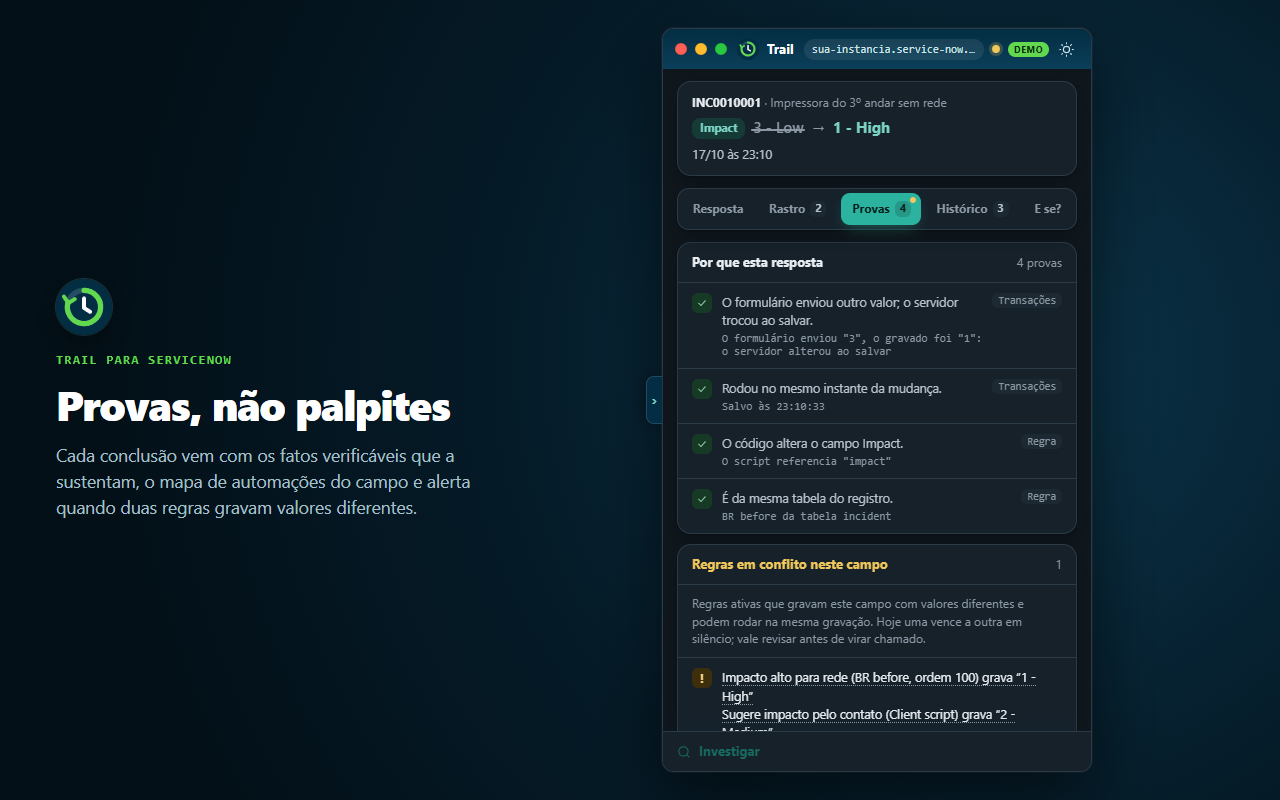
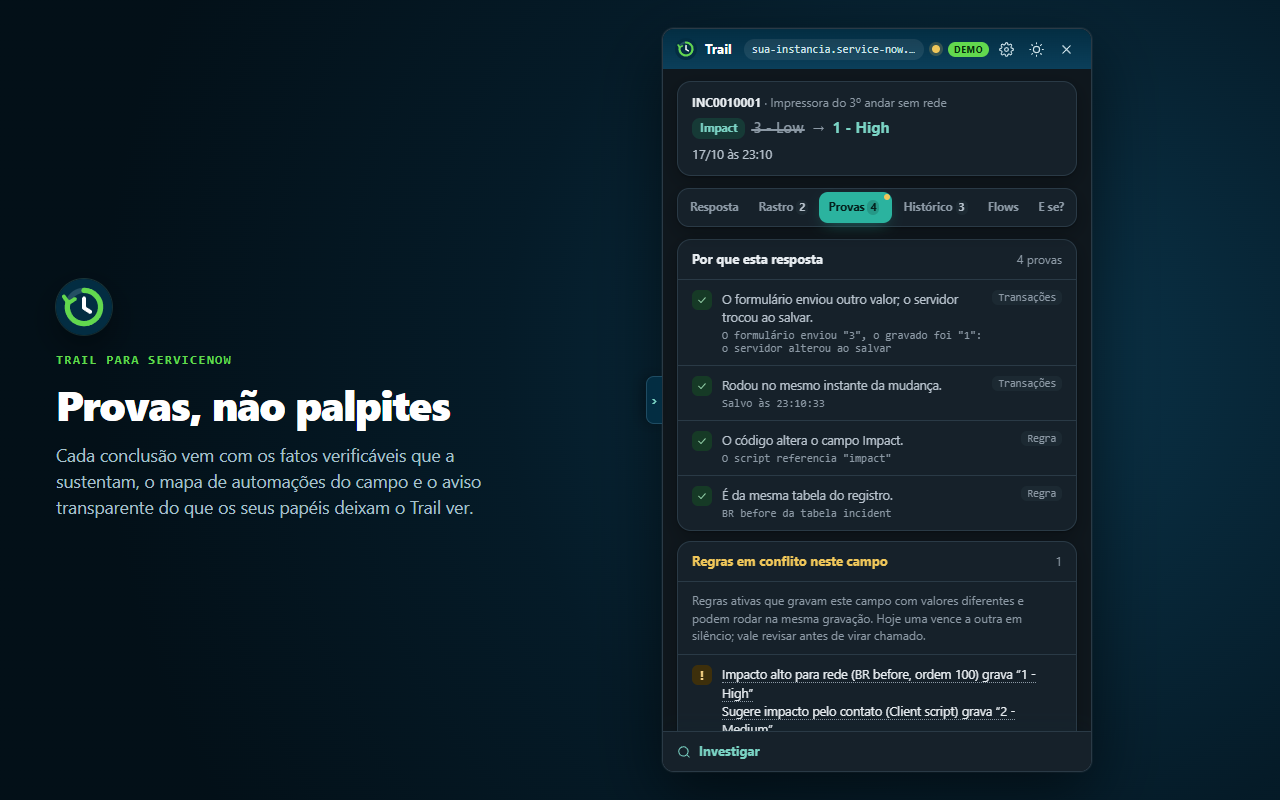
Prepare 1.0.0 store listing materials

diff --git a/docs/loja-edge.md b/docs/loja-edge.md
@@ -1,114 +1,217 @@
-# Submissão na loja Microsoft Edge Add-ons
+# Materiais e instruções para as lojas (Edge Add-ons & Chrome Web Store)
 
-Textos, notas de versão, respostas de revisão e instruções para publicar o **Trail** (v0.13.0) no Partner Center.
+Guia completo, textos de listagem (PT e EN), notas da versão 1.0.0, justificativas de permissões para revisores, especificações oficiais de assets e instruções passo a passo para publicação do **Trail 1.0.0**.
 
-## Nome
-**Trail — Perícia de registros ServiceNow** (ou, em inglês: **Trail — ServiceNow Record Forensics**)
+> [!IMPORTANT]
+> **Ação exclusiva do proprietário:** a submissão dos pacotes, o aceite dos termos legais e o gerenciamento das contas nas lojas Microsoft Edge Partner Center e Chrome Web Store Developer Dashboard são realizados exclusivamente pelo dono do projeto. Nenhum agente automatizado realiza envios ou aceites de termos.
 
-## Descrição curta (até 132 caracteres)
+---
+
+## 1. Identificação e nome da extensão
+
+- **Nome em português:** `Trail — Perícia de registros ServiceNow`
+- **Nome em inglês:** `Trail — ServiceNow Record Forensics`
+- **Nome curto (manifest / abas):** `Trail`
+- **Categoria recomendada:**
+  - Edge Partner Center: **Developer tools** (Ferramentas para desenvolvedores) ou **Productivity** (Produtividade)
+  - Chrome Web Store: **Developer Tools** (Ferramentas para desenvolvedores) ou **Workflow & Planning** (Fluxo de trabalho e planejamento)
+
+---
+
+## 2. Descrição curta (limite oficial: até 132 caracteres)
+
+### Português (127 caracteres)
 > Descubra o que mudou qualquer campo do ServiceNow e por quê. Funciona sem admin, sem instalar nada nem criar papel. Só leitura.
 
-*(127 caracteres — em inglês, 123 caracteres:)*
+### English (123 characters)
 > Find out what changed any ServiceNow field and why. Works without admin, nothing to install, no new role needed. Read-only.
 
-## Descrição longa (Português)
+---
 
-Um campo de um incidente, mudança ou item de catálogo apareceu com outro valor e ninguém sabe dizer se foi uma pessoa, uma integração, uma business rule, um client script, um job agendado ou um flow.
+## 3. Descrição longa (Português)
 
-**Funciona sem ser admin:** o **Trail** usa o que o seu próprio login já vê na instância, sem instalar nenhum app e sem criar papel novo. Quando a auditoria completa (`sys_audit`) é negada para quem não é admin, ele reconstrói a linha do tempo a partir do histórico que você já enxerga no formulário e mostra, em palavras simples, **o que os seus papéis deixam o Trail ver**.
+Um campo de um incidente, mudança, tarefa ou item de catálogo apareceu com outro valor e ninguém sabe dizer se foi uma pessoa, uma integração, uma regra de negócio, um script de cliente, um job agendado ou um flow.
 
-Ao abrir um formulário ou lista no ServiceNow (UI16, Workspace e Service Portal), o Trail coloca um ícone discreto ao lado de cada campo e uma **bolinha-assistente** sempre à mão no canto da página:
+**Funciona sem ser admin:** o **Trail** usa o que o seu próprio login já vê na instância, sem instalar nenhum app no ServiceNow e sem criar nenhum papel de sistema. Quando a auditoria completa (`sys_audit`) é restrita para o seu perfil, ele reconstrói a linha do tempo a partir do histórico que você já enxerga no formulário (Activity Stream) e explica, em palavras simples e sem jargões, **o que os seus papéis deixam o Trail ver**.
 
-- **Funciona com ou sem admin (sem instalar nada):** conversa com o servidor usando a sua sessão já aberta no navegador e respeita as ACLs da instância. Com admin, cruza todas as tabelas de auditoria, transações, eventos, flows, jobs e scripts; sem admin (como `itil` ou `Flow Designer`), usa o histórico do formulário e tudo mais que os seus papéis puderem ler, listando com transparência o que entrou na análise e o que ficou de fora.
-- **Bolinha-assistente na página:** fica no canto da instância conectada, pode ser arrastada para qualquer lugar da tela (fica onde você soltar e lembra a posição), dá boas-vindas uma vez por registro e exibe o balão de dica só ao passar o mouse; um clique abre o painel flutuante.
-- **Painel flutuante, cabeçalho novo e configurações rápidas:** abre dentro da própria página (ou pelo atalho configurável `Alt+Shift+P`), redimensionável por qualquer borda ou canto. O cabeçalho traz marca, nome e instância à esquerda e, à direita, **⚙ Configurações** (ligar ou desligar animações, gravar atalho para abrir e fechar, escolher tema, idioma, onde abrir o painel, ícones nos campos, bolinha e modo **Sempre visível** em Picture-in-Picture que fica por cima de tudo), botão para enviar ao painel lateral do Edge, alternância de tema e `✕` (ou `Esc`) para recolher na bolinha.
-- **Resposta e nomes como no formulário:** mostra quem mudou o campo, quando, de qual valor para qual (com o rótulo certo por tabela via `sys_documentation`, valor legível em vez de `sys_id` e links nas referências) e se a certeza é alta, média ou baixa, com texto pronto sem jargão técnico para colar no chamado.
-- **Rastro segundo a segundo e provas:** reconstrói a janela da mudança (formulário salvo, regras, eventos, flows e jobs) e lista cada fato verificável, por que outros candidatos foram descartados e se há regras em conflito gravando o mesmo campo.
-- **"Tudo que mudou" em grupos por momento:** ao investigar o registro inteiro ou vários registros em lote pela lista, usa a animação da trilha com a lupa e etapas próprias (*"Lendo a auditoria do registro..."*, *"Separando os campos que mudaram..."*) e agrupa as alterações por salvamento (*"admin salvou 4 campos"*), com filtros por pessoa, API ou automação e exportação em CSV, texto ou PDF.
-- **O que mudou entre dois momentos e "E se?":** escolha dois momentos na linha do tempo para ver só o que ficou diferente no registro entre eles, ou simule na aba **E se?** o que mudaria antes de salvar outro valor.
+Ao abrir qualquer formulário ou lista no ServiceNow (UI16 clássico, Workspace, Service Operations Workspace e Service Portal), o Trail coloca um ícone discreto ao lado de cada campo e uma **bolinha-assistente** sempre à mão:
 
-**Privacidade e segurança**
-- **Somente leitura:** o cliente REST do motor faz apenas consultas de leitura (`GET`). Não há código capaz de criar, alterar ou apagar registros na instância.
-- **Respeito total às ACLs do usuário:** a extensão usa a sessão autenticada do navegador e nunca vê além do que as ACLs do próprio usuário permitem no servidor.
-- **Sem servidores externos:** todas as chamadas vão direto do navegador para a instância aberta na aba. Não há telemetria, conta própria nem coleta de dados.
-- **Permissão por instância:** você escolhe em quais instâncias conectar o Trail; a extensão não pede acesso a todos os sites.
+### Principais recursos
 
-## Long description (English)
+- **Funciona com ou sem admin (sem instalar nada):** conversa com o servidor usando a sua sessão já autenticada no navegador e respeita rigorosamente as ACLs da instância. Com admin, cruza auditoria, transações, eventos, flows, jobs e scripts; sem admin (como perfil `itil` ou `Flow Designer`), utiliza o histórico do formulário e todas as fontes legíveis, com transparência total sobre o que entrou na análise e o que ficou de fora.
+- **Bolinha-assistente e painel flutuante livre:** a bolinha pode ser arrastada e solta em qualquer lugar da tela (lembra a posição exata), dá boas-vindas uma vez por registro e exibe a dica apenas ao passar o mouse. Um clique abre o painel flutuante com cantos arredondados, redimensionável por qualquer borda ou canto.
+- **Configurações rápidas e modo Sempre Visível:** o cabeçalho conta com acesso direto a **⚙ Configurações** dentro do próprio painel (ligar/desligar animações, gravar atalho de teclado customizado — padrão `Alt+Shift+P`, alternar tema claro/escuro, idioma, modo de abertura e controle dos ícones), botão para enviar ao painel lateral do navegador, e modo **Sempre visível** (Document Picture-in-Picture) que mantém o painel flutuando por cima de tudo, inclusive de outros programas.
+- **Resposta clara com nomes e rótulos do formulário:** informa quem mudou o campo, quando, de qual valor para qual (com rótulos reais via `sys_documentation`, valores legíveis em vez de `sys_id` e links clicáveis nas referências) e o grau de certeza (alta, média ou baixa), acompanhado de um resumo pronto para colar no chamado.
+- **Rastro segundo a segundo e provas verificáveis:** reconstrói a janela temporal da alteração (salvamento do formulário, regras disparadas, eventos, execuções de flow e jobs agendados), listando os fatos concretos que sustentam a conclusão, o motivo do descarte de outras hipóteses e alertas quando há regras em conflito.
+- **Aba Flows com subflows aninhados:** visualização das execuções de flows que rodaram no registro (com hierarquia visual de subflows recuados logo abaixo do flow pai, horário, status e links para a execução) e dos flows configurados para a tabela (com gatilhos descritos em linguagem natural e indicação dos campos que gravam).
+- **"O que roda neste registro":** mapa completo no fim da visualização do registro com as regras de negócio em ordem de execução (display → before → after → async) e indicação dos campos gravados, script includes chamados, client scripts, UI policies, botões e jobs, com busca por texto ou campos gravados, grupos recolhíveis e filtro "Só o que rodou aqui".
+- **"Tudo que mudou" em grupos por momento:** agrupa as alterações por instante de salvamento (*"admin salvou 4 campos"*), exibe a trilha animada com a lupa em etapas compreensíveis e permite investigar o registro inteiro ou colunas inteiras em lote pela lista, com filtros por pessoa, API ou automação e exportação em CSV, texto ou PDF.
+- **Comparador entre dois momentos e simulação "E se?":** escolha dois pontos quaisquer na linha do tempo para comparar exatamente o que mudou no registro entre eles, ou simule na aba **E se?** quais regras e scripts seriam acionados antes de salvar um novo valor.
+- **Acompanhamento automático:** ao trocar de chamado ou registro na mesma aba, o painel atualiza automaticamente o contexto sem necessidade de recarregar a página.
 
-A field on an incident, change request or catalog item has a value nobody recognizes, and nobody can tell whether it came from a person, an integration, a business rule, a client script, a scheduled job or a flow.
+### Privacidade e segurança
 
-**Works without admin:** **Trail** uses what your own login already sees on the instance — nothing to install on ServiceNow and no custom role to create. When full `sys_audit` is denied for non-admin users, Trail rebuilds the timeline from the form history you already see on the record and explains in plain words **what your roles let Trail see**.
+- **Estritamente somente leitura:** o cliente do motor emite exclusivamente requisições `GET`. Não existe código capaz de criar, alterar ou excluir registros na instância.
+- **Respeito absoluto às ACLs do usuário:** a extensão utiliza a sessão do navegador e nunca enxerga além das permissões que o servidor ServiceNow concede ao usuário conectado.
+- **Sem telemetria nem terceiros:** não há envio para servidores de terceiros; as consultas e os dados necessários seguem diretamente do navegador à instância ServiceNow escolhida pelo usuário.
+- **Permissão por instância:** você autoriza apenas os domínios de instâncias em que deseja conectar o Trail; a extensão não solicita acesso irrestrito a todos os sites.
 
-When you open a ServiceNow form or list (UI16, Workspace and Service Portal), Trail places a discreet icon next to each field and a persistent **assistant bubble** in the corner of connected pages:
+---
 
-- **Works with or without admin (nothing to install):** talks to the instance using your existing browser session and respects server-enforced ACLs. With admin, it cross-checks all audit, transaction, event, flow, job and script tables; without admin (such as `itil` or `Flow Designer`), it uses the form history and whatever else your roles can read, clearly showing which capabilities are available.
-- **Assistant bubble on the page:** stays in the corner of connected instances, can be dragged anywhere on the screen (it stays where you drop it and remembers its position), greets you once per record and shows the tip balloon only on hover; click to open the floating panel.
-- **Floating panel, clean header & built-in settings:** opens right inside the page (or with the configurable `Alt+Shift+P` shortcut) and resizes from any edge or corner. The header shows the brand, name and instance on the left and, on the right, **⚙ Settings** (toggle animations on/off, record a custom shortcut to open and close the panel, pick theme, language, where the panel opens, field icons, bubble, and **Always on top** Document Picture-in-Picture), a button to dock into the Edge side panel, theme toggle, and `✕` (or `Esc`) to fold back into the bubble.
-- **Verdict with form labels and values:** shows what changed the field, when, from which value to which (using table-specific labels from `sys_documentation`, display values instead of raw `sys_id`s, and clickable reference links), whether certainty is high, medium or low, and a plain-language summary ready to paste into a ticket.
-- **Second-by-second trace & proofs:** rebuilds the execution window around the change and lists every verifiable fact, why other candidates were ruled out, and whether conflicting rules write to the same field.
-- **"Everything that changed" grouped by moment:** whole-record and list-column batch investigations use the animated trail-and-magnifying-glass loader with dedicated steps (*"Reading record audit..."*, *"Picking out the fields that changed..."*) and group changes by save (*"admin saved 4 fields"*), with filters by person, API or automation and CSV, text or PDF export.
-- **What changed between two moments & "What if?":** pick two moments on the timeline to see only what differs between them, or simulate another value in the **What if?** tab before saving.
+## 4. Long description (English)
 
-**Privacy and security**
-- **Strictly read-only:** the client only issues read (`GET`) requests. It cannot create, update or delete records on the instance.
-- **Never sees beyond the user's ACLs:** Trail uses the logged-in user's browser session and never bypasses or exceeds the permissions enforced by the ServiceNow server for that user.
-- **No external servers:** every request goes straight from your browser to the ServiceNow instance open in the tab. No telemetry, no accounts, no analytics.
-- **Per-instance permission:** you choose which instances to connect; Trail never asks for access to all websites.
+A field on an incident, change request, task, or catalog item suddenly shows an unexpected value, and nobody can tell whether it was changed by a person, an API integration, a business rule, a client script, a scheduled job, or a flow.
 
-## Novidades da versão 0.13.0 (Português)
-- **Funciona sem ser admin (sem instalar nada nem criar papel):** usa o que o seu login já enxerga na instância. Quando `sys_audit` é negado, reconstrói a linha do tempo pelo histórico do formulário (Activity Stream) e mostra em linguagem simples **o que os seus papéis deixam o Trail ver** (quem mudou e quando, regras automáticas, flows, jobs, eventos, botões e transações).
-- **Cabeçalho novo e ⚙ Configurações dentro do painel:** controle animações (liga/desliga), grave um atalho de teclado para abrir e fechar o painel (padrão `Alt+Shift+P`), alterne tema, idioma, onde abrir o painel e o modo **Sempre visível** (Picture-in-Picture) sem sair da investigação.
-- **Bolinha-assistente e painel flutuante aprimorados:** boas-vindas uma única vez por registro, balão de dica só ao passar o mouse, trilha animada com lupa também no registro inteiro e no lote, e tratamento separado para instâncias lentas sem falso aviso de acesso negado.
+**Works without admin:** **Trail** uses what your existing login already sees on the instance — nothing to install on ServiceNow and no custom role required. When full audit access (`sys_audit`) is restricted for your user, Trail reconstructs the timeline from the form history you already see on the record (Activity Stream) and explains in plain language **what your roles let Trail see**.
 
-## What's new in 0.13.0 (English)
-- **Works without admin (nothing to install, no new role needed):** uses what your login already sees on the instance. When `sys_audit` is denied, Trail rebuilds the timeline from the form history (Activity Stream) and shows in plain words **what your roles let Trail see** (who changed and when, business rules, flows, jobs, events, UI actions and transactions).
-- **New header & built-in ⚙ Settings sheet:** toggle animations on or off, record a custom keyboard shortcut to open and close the panel (default `Alt+Shift+P`), switch theme, language, where the panel opens, and **Always on top** (Picture-in-Picture) right inside the panel.
-- **Refined assistant bubble & floating panel:** per-record welcome balloon, hover-only tip balloon, animated trail-and-magnifying-glass loader for whole-record and batch views, and separate handling for slow responses without false access-denied warnings.
+When opening any form or list in ServiceNow (classic UI16, Workspace, Service Operations Workspace, or Service Portal), Trail places a discreet icon next to each field and a handy **assistant bubble** on the page:
 
-## Categoria sugerida
-**Developer Tools** (Ferramentas para desenvolvedores) ou **Productivity** (Produtividade).
+### Key Features
 
-## Permissões justificadas (para o campo "Notes for reviewers")
+- **Works with or without admin (zero installation):** communicates with the ServiceNow instance using your existing authenticated browser session, strictly following server-enforced ACLs. With admin rights, it inspects audit logs, transactions, events, flows, jobs, and scripts; without admin (such as `itil` or `Flow Designer` roles), it uses the form history and all readable sources, providing full transparency on which capabilities were evaluated.
+- **Free-floating assistant bubble & panel:** the assistant bubble can be dragged and placed anywhere on the screen (retains its proportional position across reloads), welcomes you once per record, and displays its tip balloon only on hover. A single click opens the floating panel with rounded corners, resizable from any edge or corner.
+- **Quick settings & Always on Top mode:** the header includes immediate access to in-panel **⚙ Settings** (toggle animations, record custom keyboard shortcuts — default `Alt+Shift+P`, switch light/dark theme, choose language, select open mode, and toggle field icons), a button to dock into the browser's side panel, and **Always on top** (Document Picture-in-Picture) to keep the forensic panel floating above all application windows.
+- **Clear verdict with native form labels:** reveals who changed the field, when, from which value to which (using dictionary labels via `sys_documentation`, human-readable display values instead of technical `sys_id`s, and clickable reference links), accompanied by certainty scoring (high, medium, or low) and a plain-text summary ready to paste into work notes.
+- **Second-by-second trace & verifiable proofs:** reconstructs the time window around the change (form save, business rules, events, flow executions, and scheduled jobs), detailing the facts supporting the conclusion, why alternative causes were ruled out, and warnings for conflicting rules.
+- **Flows tab with nested subflows:** inspects flows that executed on the record (with nested subflows indented under their parent flow, execution status, timestamps, and direct execution links) as well as flows configured for the table (with human-readable triggers and fields written).
+- **"What runs on this record":** comprehensive automation map at the bottom of the whole-record view, displaying business rules in execution sequence (display → before → after → async) with written fields, called script includes, client scripts, UI policies, form buttons, and jobs, complete with text/field search, collapsible groups, and a "Ran here only" filter.
+- **"Everything that changed" grouped by save event:** groups all field changes by saving moment (*"admin saved 4 fields"*), with an animated magnifying-glass progress trail, whole-record analysis, list batch investigations with CSV export, and filtering by author, API, or automation.
+- **Two-moment comparator & "What if?" simulation:** select any two checkpoints on the record timeline to view the diff between them, or simulate in the **What if?** tab which rules and scripts would run before committing a new value.
+- **Automatic record tracking:** navigating between records or tickets in the same browser tab smoothly refreshes the forensic context without requiring a manual page reload.
+
+### Privacy and Security
+
+- **Strictly read-only:** all engine requests are HTTP `GET` only. There is no code path capable of creating, modifying, or deleting records on the instance.
+- **ACL-bound:** Trail operates within the logged-in user's existing browser session and never sees beyond the permissions granted by the ServiceNow server.
+- **No telemetry or third-party servers:** required queries and data go directly from the browser to the ServiceNow instance selected by the user.
+- **Per-instance host permission:** permissions are granted only for the specific instances you connect; Trail never requests unrestricted access to all websites.
+
+---
+
+## 5. Novidades da versão 1.0.0 (Release Notes)
+
+### Português (Versão 1.0.0 — Lançamento Oficial)
+- **Perícia completa com ou sem admin:** funciona usando o que o seu login já vê. Quando a auditoria completa não está acessível, o Trail utiliza o histórico do formulário (Activity Stream) e exibe de forma transparente o que os seus papéis permitem ver, sem precisar instalar nada na instância e sem criar papéis adicionais.
+- **Aba Flows com subflows aninhados:** visualize os flows executados no registro com subflows recuados logo abaixo do flow pai, status, horário e links diretos, além dos flows configurados para a tabela com gatilhos em linguagem natural e campos gravados.
+- **Mapa "O que roda neste registro":** visualização completa no histórico do registro com regras de negócio em ordem de execução, script includes, client scripts, UI policies, botões e jobs, incluindo busca por campo gravado e filtro de automações que rodaram no chamado.
+- **Bolinha-assistente e painel flutuante aprimorados:** arraste a bolinha para qualquer lugar da tela com memória de posição, acesse configurações rápidas dentro do painel (animações, atalho customizável `Alt+Shift+P`, temas, idioma) e use o modo Sempre Visível (Picture-in-Picture).
+- **Compatibilidade universal Chromium:** experiência idêntica no Microsoft Edge e no Google Chrome, com envio ao painel lateral do navegador ou janela própria e acompanhamento automático de navegação entre registros.
+- **Somente leitura:** sem servidores intermediários; as consultas GET respeitam as ACLs do usuário.
+
+### English (Version 1.0.0 — Official Release)
+- **Full forensics with or without admin:** works with your existing login. When full audit access is unavailable, Trail seamlessly falls back to form history (Activity Stream) and transparently reports role capabilities without installing server apps or creating new roles.
+- **Flows tab with nested subflows:** view flows executed on the record with nested subflows indented under their parent execution, status, timestamps, and direct links, plus configured table flows with plain-language triggers and written fields.
+- **"What runs on this record" automation map:** whole-record view showing business rules in execution order, script includes, client scripts, UI policies, UI actions, and jobs, with search by modified field and a "Ran here only" filter.
+- **Enhanced assistant bubble & floating panel:** freely drag the bubble anywhere with persistent position, access in-panel quick settings (animations toggle, custom `Alt+Shift+P` shortcut, themes, language), and use Always on Top (Picture-in-Picture) mode.
+- **Universal Chromium support:** identical smooth experience on Microsoft Edge and Google Chrome, supporting native side panel docking, standalone window mode, and automatic record switching.
+- **Strictly read-only & private:** zero telemetry, no third-party servers, and GET-only requests strictly governed by the user's ServiceNow ACLs.
+
+---
+
+## 6. Requisitos oficiais de assets visuais por loja
+
+### Microsoft Edge Add-ons (Partner Center)
+
+| Asset | Requisito / Formato | Dimensões | Arquivo no repositório |
+|---|---|---|---|
+| **Ícone da extensão** | PNG obrigatório (fundo transparente ou preenchido) | **300 × 300 px** | [`docs/store/logo-300.png`](store/logo-300.png) |
+| **Captura 1 (Resposta)** | PNG ou JPEG (sem dados privados, alta fidelidade) | **1280 × 800 px** | [`docs/store/shot-1-resposta.png`](store/shot-1-resposta.png) |
+| **Captura 2 (Provas)** | PNG ou JPEG | **1280 × 800 px** | [`docs/store/shot-2-provas.png`](store/shot-2-provas.png) |
+| **Captura 3 (Rastro/Lote)** | PNG ou JPEG | **1280 × 800 px** | [`docs/store/shot-3-rastro.png`](store/shot-3-rastro.png) |
+| **Captura 4 (Comparador)** | PNG ou JPEG | **1280 × 800 px** | [`docs/store/shot-4-comparar.png`](store/shot-4-comparar.png) |
+| **Captura 5 (Flows)** | PNG ou JPEG | **1280 × 800 px** | [`docs/store/shot-5-flows.png`](store/shot-5-flows.png) |
+| **Tile promocional pequeno** | PNG ou JPEG (opcional) | **440 × 280 px** | Não preparado |
+| **Tile promocional grande** | PNG ou JPEG (opcional) | **1400 × 560 px** | Opcional |
+
+*Nota Edge:* Até 6 capturas; tamanhos aceitos: 640×480 ou 1280×800 px. As 5 capturas preparadas em docs/store estão no segundo formato. Tiles promocionais são opcionais. [Requisitos oficiais do Edge Add-ons](https://learn.microsoft.com/en-us/microsoft-edge/extensions/publish/publish-extension).
+
+### Google Chrome Web Store (Developer Dashboard)
+
+| Asset | Requisito / Formato | Dimensões | Arquivo no repositório |
+|---|---|---|---|
+| **Ícone da extensão** | PNG (embutido no pacote) | **128 × 128 px** | [`extension/public/icons/icon128.png`](../extension/public/icons/icon128.png) |
+| **Capturas de tela** | PNG ou JPEG (mínimo 1, máximo 5) | **1280 × 800 px** (ou 640×400) | [`docs/store/shot-1-resposta.png`](store/shot-1-resposta.png) a `shot-5-flows.png` |
+| **Tile promocional pequeno** | PNG ou JPEG (obrigatório) | **440 × 280 px** | Não preparado |
+| **Tile promocional marquee** | PNG ou JPEG (opcional) | **1400 × 560 px** | Opcional |
+
+---
+
+## 7. Informações de privacidade e justificativas para revisores
+
+### Texto para "Notes for certification / Notes for reviewers" (Inglês)
 
 ```
-Trail is a strictly read-only forensic assistant for ServiceNow records.
+Trail is a strictly read-only forensic assistant for ServiceNow records and changes.
 
-Permissions used:
-- storage: saves user preferences (theme, language, animations, keyboard shortcut, panel mode, bubble/float position) and the list of ServiceNow instances the user explicitly connected.
-- sidePanel: displays the investigation report in the browser side panel when the user chooses side panel mode.
-- activeTab + scripting: reads the current ServiceNow record context (table, sys_id, session token g_ck) and injects the field icons, assistant bubble, and floating panel on instances the user connected.
-- optional_host_permissions (https://*/*): requested at runtime via chrome.permissions.request ONLY for the specific ServiceNow origin the user clicks "Connect this instance" on.
+Single Purpose:
+Enable ServiceNow developers, administrators, and support analysts to inspect what modified any given field or record, when the change occurred, which automation or user caused it, and with what level of certainty.
 
-Read-only & ACL-bound:
-The extension issues only read (GET) requests to the connected ServiceNow instance using the user's existing browser session. It never writes to the instance, requires no app or role on the server, never sees beyond the logged-in user's server-enforced ACLs, and never sends data to any third-party server.
+Permissions Justification:
+- storage: Saves client-side preferences (theme, language, animation toggle, keyboard shortcut, panel display mode, bubble position) and the user's explicitly connected ServiceNow instance domains.
+- sidePanel: Provides side panel integration when the user selects browser side panel mode.
+- activeTab & scripting: Detects the active ServiceNow record context (table, sys_id, and session token) and renders the non-intrusive field icons, floating assistant bubble, and forensic panel on connected tabs.
+- optional_host_permissions (https://*/*): Requested at runtime strictly on user demand via chrome.permissions.request when the user clicks "Connect this instance". Never requests wildcards upon installation.
 
-Testing without a ServiceNow account:
-Open chrome-extension://<id>/src/sidepanel/index.html?demo=1&float=1 (or https://trail-sn.vercel.app/b3/) to inspect the full UI with built-in demonstration data.
+Read-only & ACL Integrity:
+The extension issues exclusively HTTP GET queries using the user's active browser session. It never writes to the instance, requires no server-side application or role, never bypasses server ACLs, and transmits zero data to third-party endpoints.
+
+Reviewer Testing Without a ServiceNow Account:
+Reviewers can verify 100% of the UI, tabs, interactions, and settings without active ServiceNow credentials by opening:
+chrome-extension://<id>/src/sidepanel/index.html?demo=1&float=1
+or inspecting the live interactive demo at:
+https://trail-sn.vercel.app/b3/
 ```
 
-## URL da política de privacidade
-Publique `docs/PRIVACIDADE.md` (ou a página equivalente do site):
-- Site: `https://trail-sn.vercel.app/privacidade/`
-- Repositório público: `https://github.com/iiFoox/trail-sn/blob/master/docs/PRIVACIDADE.md`
+### Declaração de privacidade nas lojas
 
-No Partner Center, marque **"This extension does not collect any personal data"**.
+- **Declaração de dados:** não marque que a extensão não trata dados. Ela lê e processa localmente conteúdo do ServiceNow e usa a sessão do usuário para consultar a instância conectada. Declare no painel os tipos de dados aplicáveis e a finalidade conforme a política publicada; o processamento local não elimina a obrigação de declarar. Revise os campos atuais de cada loja antes de enviar. O Chrome exige transparência sobre dados processados localmente, incluindo conteúdo de sites, dados de formulário e atividade de navegação ([FAQ oficial](https://developer.chrome.com/docs/webstore/program-policies/user-data-faq)). A política publicada hoje ainda afirma que não são tratados dados pessoais; é preciso atualizá-la para descrever esse processamento antes de enviar.
+- **Uso único (Single Purpose):** *"Investigação pericial e leitura de auditoria e automações em registros do ServiceNow diretamente pelo navegador."*
+- **URL da Política de Privacidade:**
+  `https://trail-sn.vercel.app/privacidade/`
+- **URL de suporte / site oficial:**
+  `https://trail-sn.vercel.app/b3/`
 
-## Site e suporte
-- Site oficial com demonstração interativa: `https://trail-sn.vercel.app/b3/`
-- Repositório e suporte (issues): `https://github.com/iiFoox/trail-sn`
+---
 
-## Passo a passo no Partner Center (1ª submissão — exige login Microsoft)
+## 8. Passo a passo para o envio (Exclusivo do Dono)
 
-1. Acesse <https://partner.microsoft.com/dashboard/microsoftedge/overview> e entre com a sua conta Microsoft.
-2. Caso ainda não tenha cadastro no programa **Microsoft Edge Add-ons**, conclua o registro gratuito de desenvolvedor individual.
-3. Clique em **Create new extension** e envie o arquivo `trail-edge-0.13.0.zip` (gerado por `bash tools/atualizar-extensao.sh`).
-4. Em **Availability**, escolha **Public** (ou **Hidden** se quiser testar só por link direto antes).
-5. Em **Properties**:
-   - Categoria: **Developer tools**.
-   - Cole a URL da política de privacidade (`https://trail-sn.vercel.app/privacidade/`).
-   - Cole a URL do site (`https://trail-sn.vercel.app/b3/`).
-6. Em **Store listings**, adicione **Portuguese (Brazil)** e **English**:
-   - Cole a descrição curta e a descrição longa acima.
-   - Cole as notas da versão 0.13.0 no campo de novidades da versão.
-   - Envie o ícone `300×300` (`docs/store/logo-300.png`) e as capturas `1280×800` (`docs/store/shot-*.png`).
-7. Em **Submit your extension**, cole o texto de **Notes for reviewers** acima e clique em **Publish**.
+### A. Publicação no Microsoft Edge Add-ons (Partner Center)
+
+1. Acesse o [Partner Center do Microsoft Edge](https://partner.microsoft.com/dashboard/microsoftedge/overview) e entre com sua conta Microsoft.
+2. No painel de extensões, clique em **Create new extension** (ou selecione a extensão existente se já iniciada).
+3. Envie o pacote ZIP compilado gerado por `bash tools/atualizar-extensao.sh` (ou compactação do diretório `extension/dist`).
+4. Na aba **Availability**, defina **Public** (visível a todos na loja).
+5. Na aba **Properties**:
+   - Categoria principal: **Developer tools** (Ferramentas para desenvolvedores).
+   - Política de privacidade: `https://trail-sn.vercel.app/privacidade/`.
+   - Site / suporte: `https://trail-sn.vercel.app/b3/`.
+6. Na aba **Store listings**:
+   - Adicione os idiomas **Portuguese (Brazil)** e **English**.
+   - Preencha a descrição curta (seção 2 deste guia).
+   - Preencha a descrição longa formatada (seções 3 e 4).
+   - Cole as notas da versão 1.0.0 (seção 5).
+   - Faça o upload do logotipo `docs/store/logo-300.png` (`300×300 px`).
+   - Faça o upload das 5 capturas `1280×800 px` (`docs/store/shot-1-resposta.png` a `shot-5-flows.png`). O tile promocional pequeno de 440×280 px é opcional no Edge.
+7. Na aba **Submit your extension**:
+   - Cole o texto em inglês de justificativas para os revisores (seção 7) no campo **Notes for certification**.
+   - Revise os dados e clique em **Publish**.
+
+### B. Publicação na Google Chrome Web Store (Developer Dashboard)
+
+1. Acesse o [Chrome Web Store Developer Dashboard](https://chrome.google.com/webstore/devconsole/) com a sua conta Google de desenvolvedor.
+2. Clique em **Novo item** (ou selecione o rascunho existente).
+3. Faça o upload do arquivo ZIP contendo os arquivos compilados de `extension/dist` (com o `manifest.json` na raiz do arquivo compactado).
+4. Em **Detalhes do item**:
+   - Nome: `Trail — Perícia de registros ServiceNow` (ou configurado pelo manifest em `_locales`).
+   - Descrição curta e descrição longa: copie os textos das seções 2 e 4.
+   - Categoria: **Ferramentas para desenvolvedores**.
+   - Envie as 5 capturas `1280×800 px` (`docs/store/shot-1-resposta.png` a `shot-5-flows.png`). Adicione também o tile promocional obrigatório de 440×280 px, que ainda não foi preparado.
+   - Ícone: o Chrome extrai automaticamente o ícone `128×128 px` do manifest.
+5. Em **Privacidade**:
+   - Justificativa do propósito único (Single Purpose): copie da seção 7.
+   - Justificativa de permissões: cole a explicação de cada permissão (`storage`, `sidePanel`, `activeTab`, `scripting`, `optional_host_permissions`) conforme a seção 7.
+   - Declaração de uso de dados: declare que os dados do ServiceNow e da navegação são processados para a função anunciada, localmente e em consultas à instância escolhida. Revise cada categoria conforme a tela atual; não use a opção “não coleta dados”. Confirme compartilhamento e finalidade com a política de privacidade vigente.
+   - Política de privacidade: `https://trail-sn.vercel.app/privacidade/`.
+6. Em **Instruções para a equipe de revisão**:
+   - Cole as instruções para teste sem conta ServiceNow (seção 7).
+7. Clique em **Enviar para revisão**.

diff --git a/docs/DIARIO.md b/docs/DIARIO.md
@@ -326,3 +326,12 @@ Pedidos do dono depois de testar a 0.12.2 no Edge:
 - `entry.ts` agora expõe `flows` e `automations` no bundle de regressão. Rodaram no PDI em incidentes [PT] reais: o flow que rodou aparece como "rodou aqui", e as fontes vêm todas com acesso "ok" (detalhes em `docs/PROXIMOS-PASSOS.md`).
 - Encontrado: subflows não aparecem, porque o contexto deles aponta para a execução pai. O teste foi escrito (vermelho) e a correção ficou para o Codex.
 - O Claude saiu por limite de tokens; o **Codex #2 coordena** a partir daqui. Roteiro completo em `docs/PROXIMOS-PASSOS.md`.
+
+## 21/10/2026: materiais das lojas para 1.0.0
+- Preparados os textos de listagem em português e inglês, notas 1.0.0, justificativas para revisão e instruções exclusivas do proprietário em `docs/loja-edge.md`.
+- `docs/store/` contém cinco capturas (todas 1280×800 px), incluindo `shot-5-flows.png`, e `logo-300.png` (300×300 px). Revisão conferiu dimensões e corrigiu links de arquivos locais.
+- Conferidas as especificações oficiais: Edge aceita até 6 capturas (640×480 ou 1280×800); Chrome aceita até 5 capturas e exige tile promocional 440×280. Esse tile ainda não foi preparado; fica pendente antes do envio pelo dono.
+- Verificação local do coordenador: `npm run typecheck` passou; `npm test` e `npm run build` foram bloqueados quando esbuild tentou ler diretórios fora do workspace (`Acesso negado`). O relatório do Gemini diz Vitest 150/150 e `_site-demo.mjs` sem erros/overflow; confirmei dimensões PNG e `git diff --check`.
+- A orientação de privacidade agora informa que o Trail processa localmente conteúdo do ServiceNow e envia as consultas diretamente à instância escolhida. Removida a instrução imprecisa de declarar “não coleta dados”; o dono deve confirmar as categorias no painel conforme a política vigente.
+- Pendência identificada na revisão: `site/privacidade/index.html` ainda afirma que não há tratamento de dados pessoais. Atualizar a política publicada para refletir leitura/processamento local de conteúdo do ServiceNow e consultas à instância antes de enviar a listagem.
+- Próximo item da fila: site em inglês com alternador PT/EN (`site/b3`). Nenhum envio às lojas foi feito.

diff --git a/docs/PROXIMOS-PASSOS.md b/docs/PROXIMOS-PASSOS.md
@@ -32,8 +32,8 @@ O pacote `0.14.6` foi copiado para `../trail-extensao` e zipado manualmente (a e
 1. Repetir a validação acima como itil (impersonar `pt.trail.itil`, sys_id `3fc011fdc3c4d3101cbdb8e1b401311c`) e como um usuário de escopo. Conferir que as fontes negadas aparecem como "–" / "Seus papéis não mostram…" e que nada é inventado. Voltar ao admin no fim.
 2. **Concluído em 21/10/2026:** rodar os 441 casos como `pt.trail.itil`. Resultado: 2 causas esperadas; 317 casos sem evidência, 111 com causa candidata e 11 erros de leitura. Fontes negadas incluem `sys_audit`, logs/eventos, workflows, regras, script includes e UI actions. A leitura é compatível com as restrições desse perfil; conferir os números e a análise em `docs/DIARIO.md`. Sessão restaurada e confirmada como admin.
 3. **Concluído em 21/10/2026:** texto neutro para navegadores em `extension/src/shared/i18n.ts` (PT/EN), `site/b3/index.html`, bundles de demonstração `site/assets/icons-BktSENMu.js` e `site/demo/content.js`; expectativa ajustada em `tests/e2e/float.mjs`. Teste `float.mjs` passou. Checks completos e limitações em `docs/DIARIO.md`.
-4. Preparar o pacote 1.0.0 para as lojas (Edge e Chrome): `docs/loja-edge.md`, capturas e descrição. **Quem envia é o dono.**
-5. Site em inglês (`site/b3`, alternador PT/EN).
+4. **Concluído com pendências de envio em 21/10/2026:** materiais da loja 1.0.0 em `docs/loja-edge.md` e `docs/store/` (5 capturas 1280×800, logo 300×300, textos PT/EN e instruções). Revisão corrigiu o limite do Edge (6 capturas), links locais e declaração de dados. Antes do envio, criar o tile 440×280 obrigatório no Chrome e atualizar `site/privacidade/index.html`, que ainda diz que a extensão não trata dados pessoais. **Quem envia é o dono.**
+5. **Em andamento:** site em inglês (`site/b3`, alternador PT/EN).
 6. Lacunas conhecidas: flows escopados (o Flow Designer do PDI dá erro 500) e o papel de desenvolvedor delegado não foram testados.
 7. Se a sessão do portal ainda estiver com `security_admin` elevado, tirar a elevação (menu do usuário).
 
